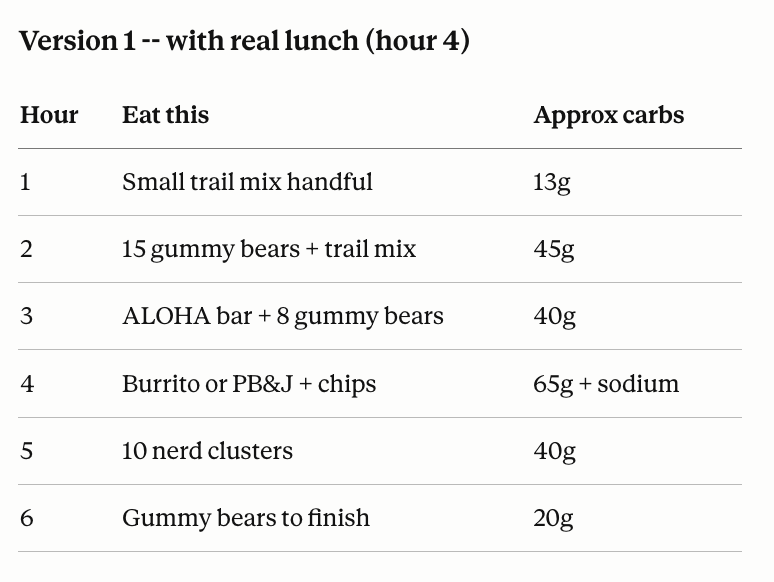
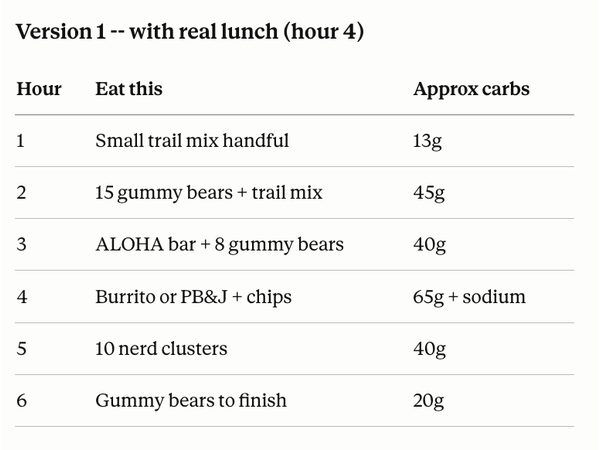
Avenue: center fueling photos, same size, update fuel text

diff --git a/pages/avenue-of-the-giants.html b/pages/avenue-of-the-giants.html
@@ -199,8 +199,8 @@
         display: grid;
         grid-template-columns: 1fr 1fr;
         gap: 16px;
-        margin-top: 20px;
-        max-width: 480px;
+        margin: 20px auto 0;
+        max-width: 560px;
       }
 
       .fueling-img-pair img {
@@ -310,7 +310,7 @@
               This was the ride where I started taking fueling seriously, and I'm glad I did. Ahead of time I planned out our carb, sodium, and electrolyte needs with Claude — and the numbers were so much higher than I would have guessed on my own. Left to my devices I would have under-eaten by a lot. Nerds Clusters, gummy bears, trail mix, and Nuun tablets all put in overtime. Happy to report: no one bonked.
             </p>
             <p>
-              I'll share the screenshots of what Claude recommended — it's a solid template for anyone heading into a long ride or tri training. The respect I gained for fueling on this ride is something I'm carrying forward.
+              I'll share the screenshots of what Claude recommended — making use of Claude or your favorite chatbot is an easy way for anyone to get some quick insights into what fuel they need to be successful. I for example, liked seeing my carb intake in units of individual nerd clusters. I had Claude make up two plans, in case there weren't any lunch options on the route but luckily a "real lunch" was found.
             </p>
             <div class="fueling-img-pair">
               <div>
